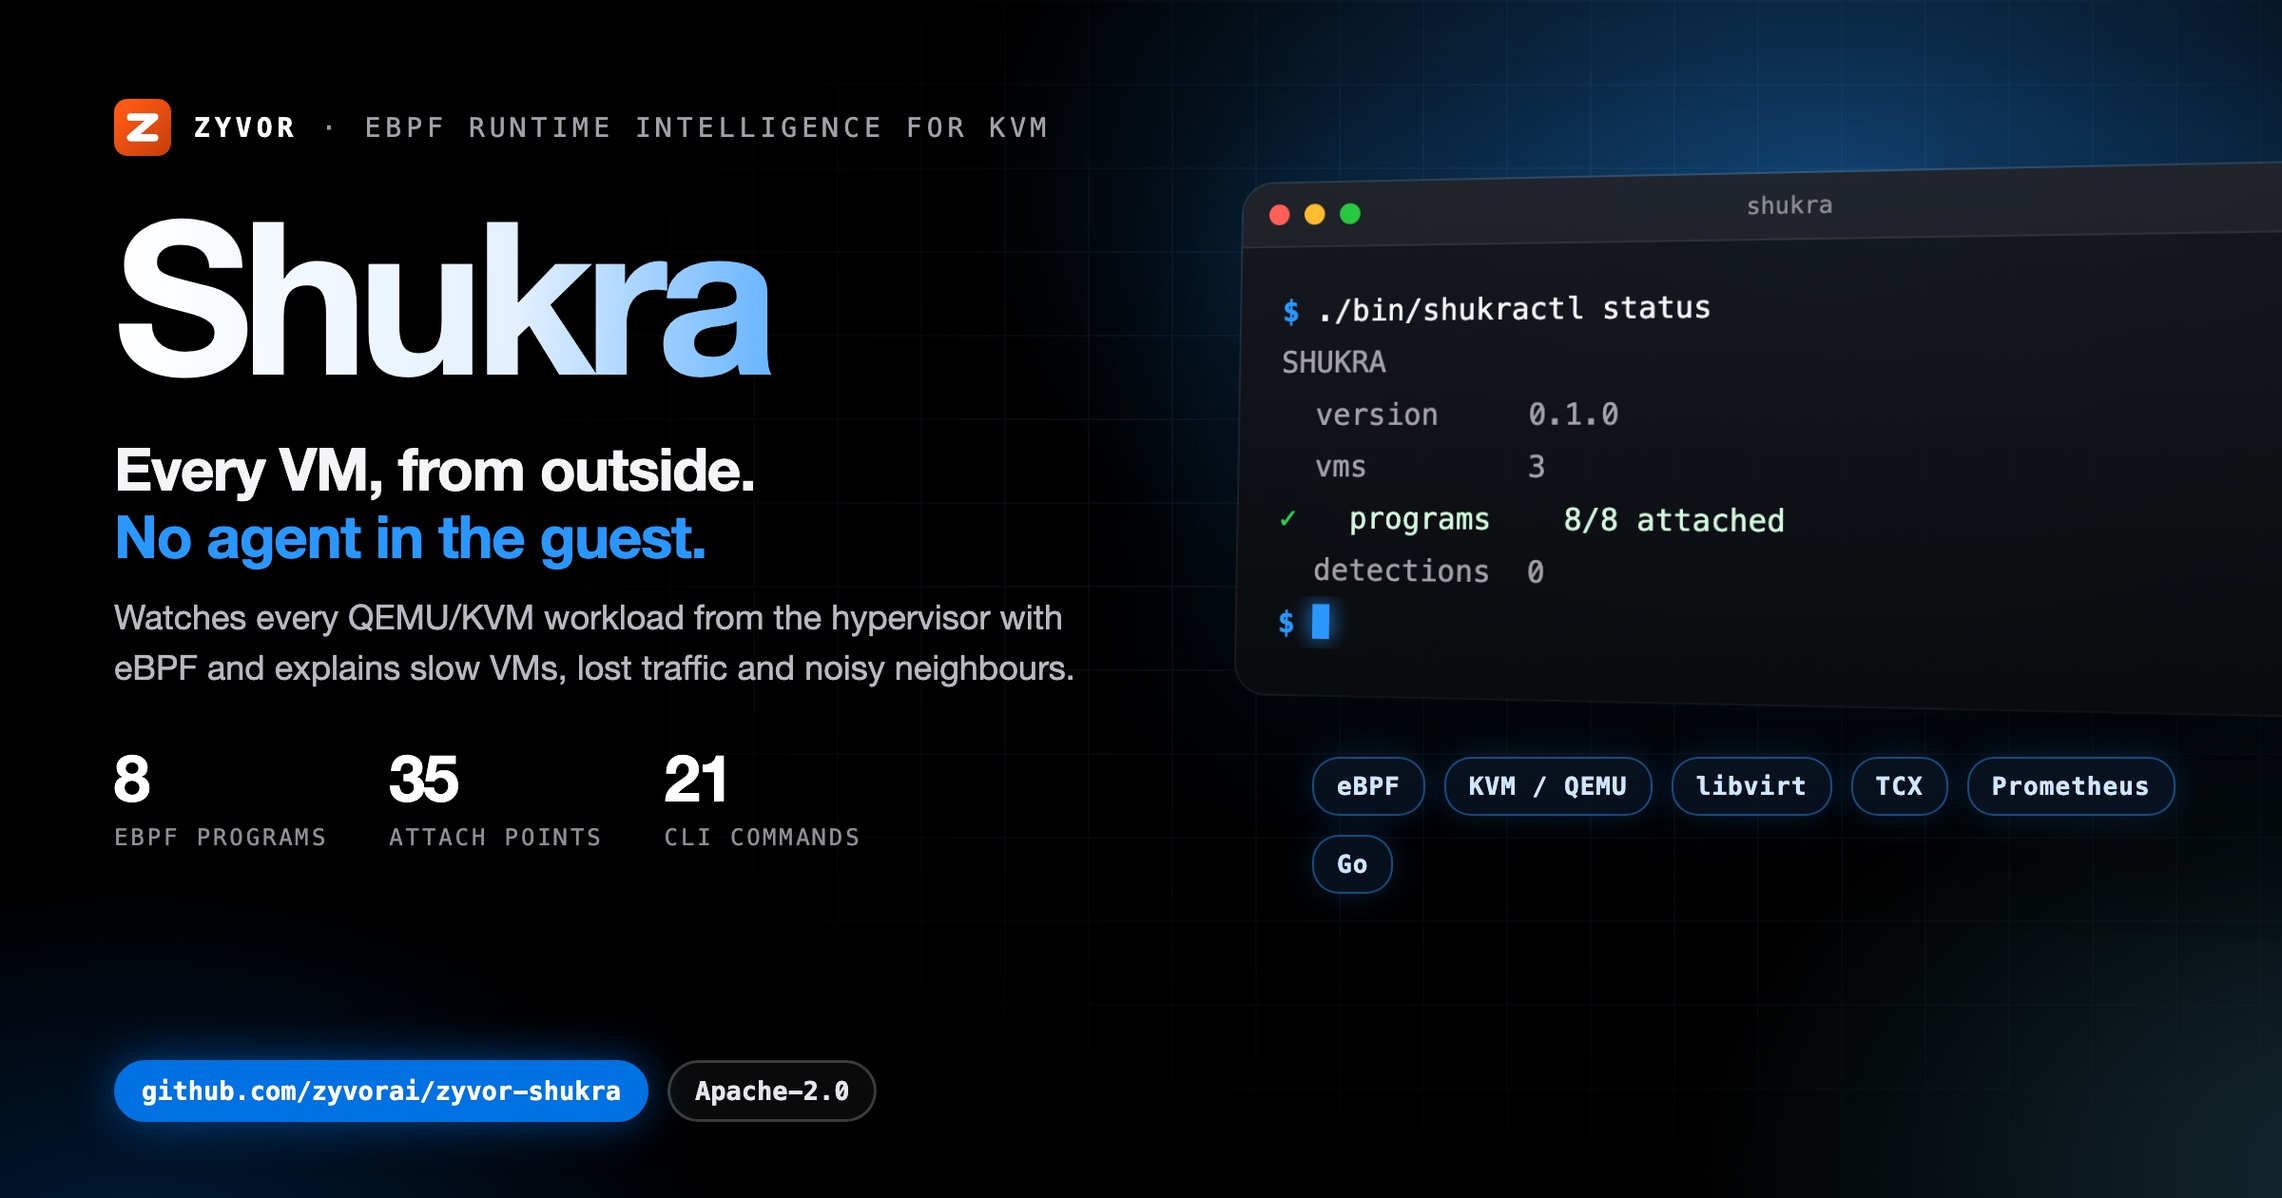
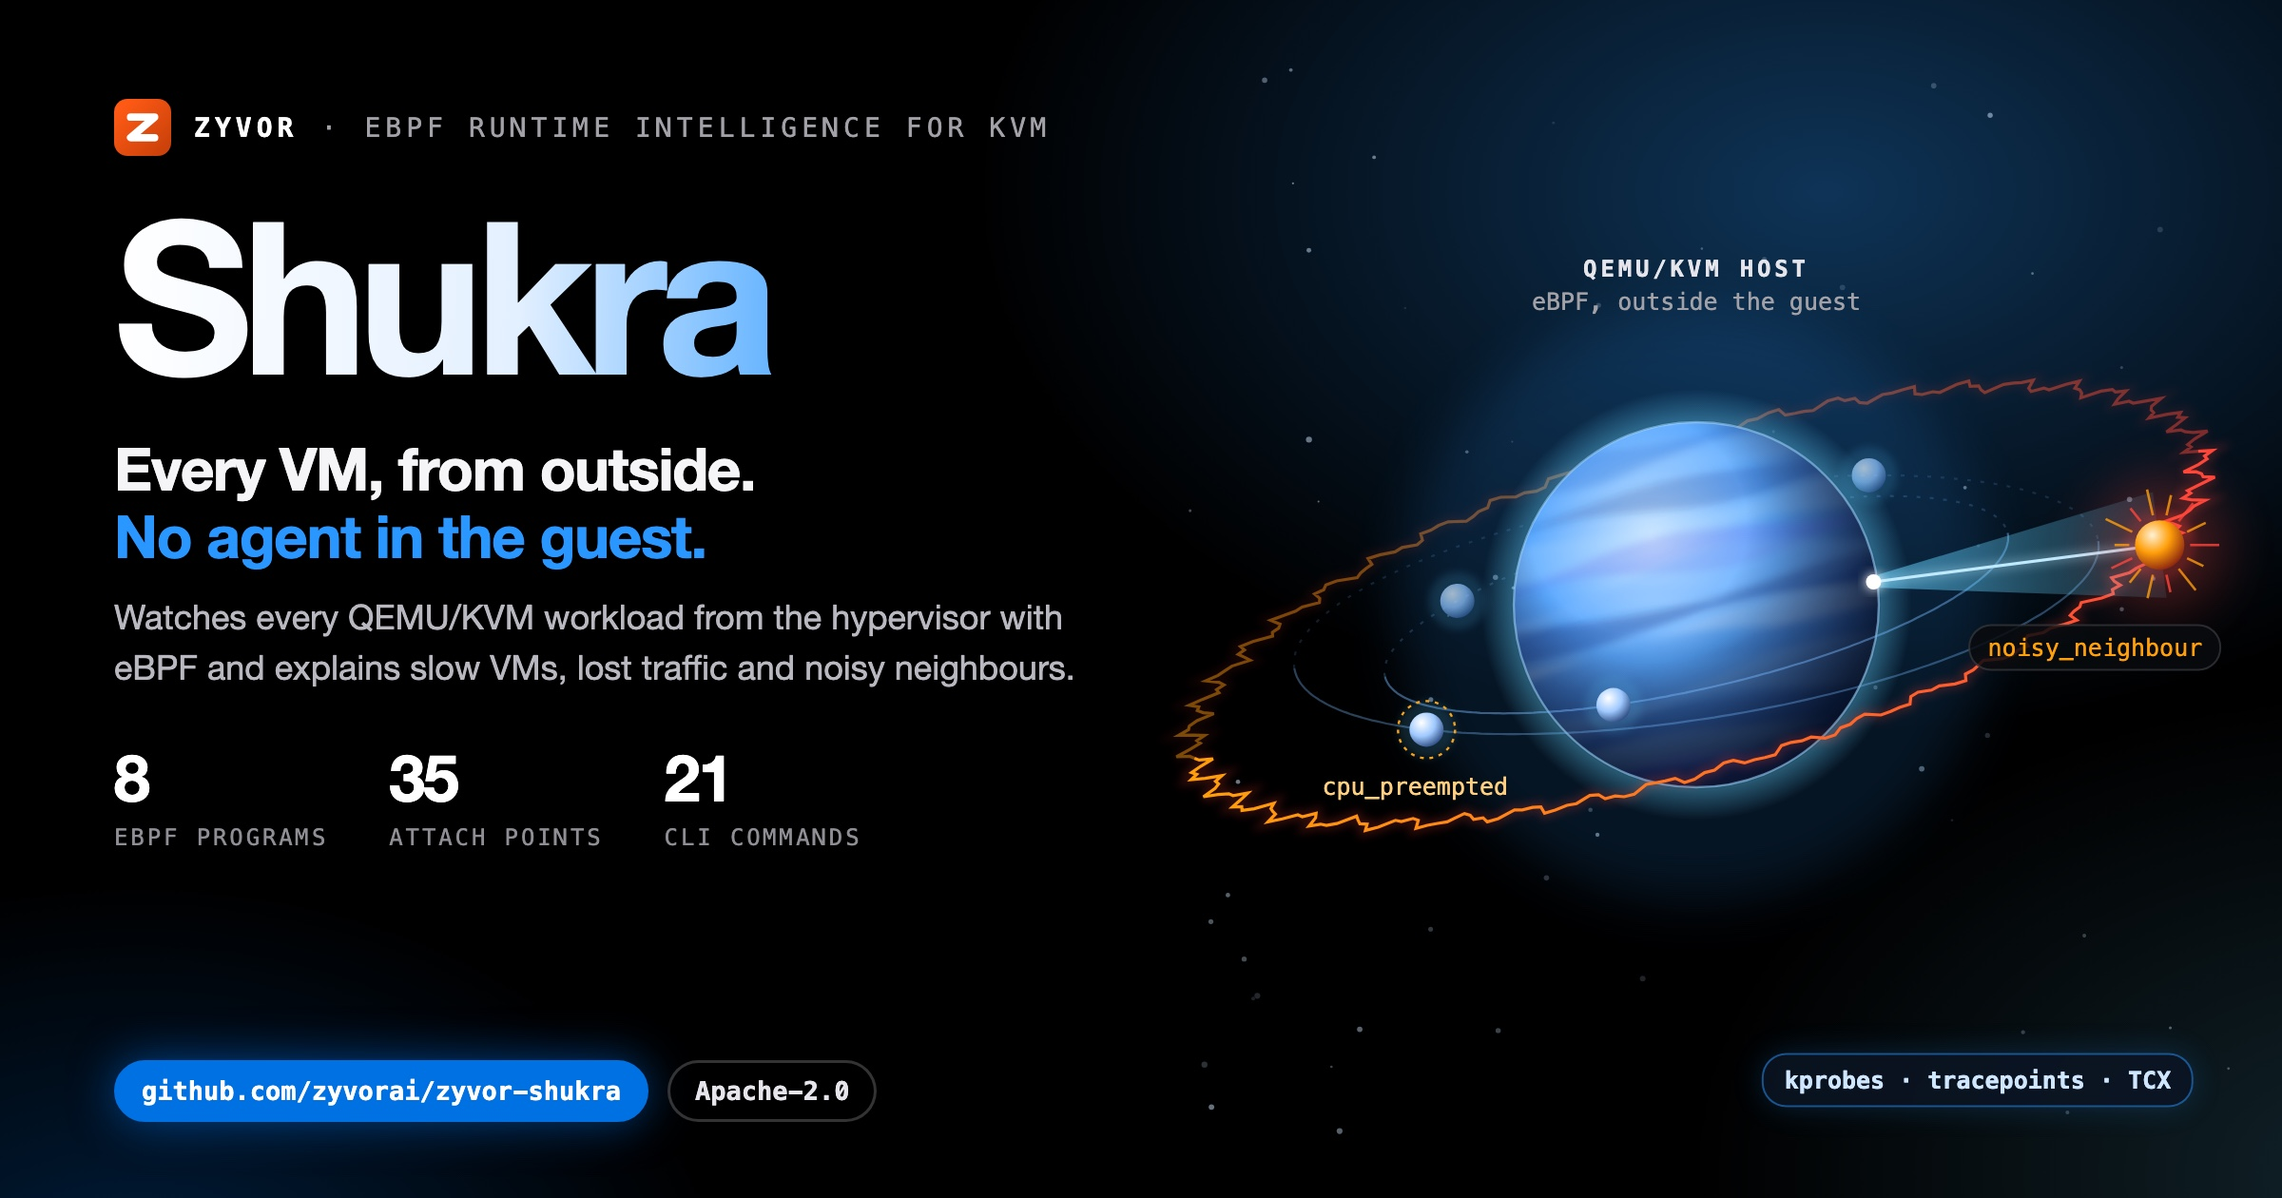
docs(social): unique illustrated hero card
Replace the shared terminal-window art with a motif drawn for this project;
same verified copy and stats on the left.

Changed region(s): [[0.5, 0.1238, 1.0, 0.7429], [0.75, 0.8667, 0.9688, 0.9286]]

diff --git a/docs/social/shukra-hero-dark.html b/docs/social/shukra-hero-dark.html
@@ -8,58 +8,47 @@
   Build: ./docs/social/build-hero-dark.sh  ->  shukra-hero-dark.jpg (2400x1260)
 -->
 <style>
-  :root { --blue:#0071e3; --signal:#2997ff; --cyan:#64d2ff; --green:#30d158; --amber:#ff9f0a;
+  :root { --blue:#0071e3; --signal:#2997ff; --cyan:#64d2ff; --green:#30d158; --amber:#ff9f0a; --red:#ff453a; --violet:#bf5af2;
     --sans:'SF Pro Display','Helvetica Neue',Helvetica,Arial,sans-serif; --mono:'SF Mono',Menlo,Consolas,monospace; }
   * { box-sizing:border-box; }
   html,body { margin:0; padding:0; }
   body { width:1200px; height:630px; overflow:hidden; color:#f5f5f7; font-family:var(--sans); position:relative; background:#000; }
   .aurora { position:absolute; inset:0;
-    background:radial-gradient(720px 460px at 80% 16%, rgba(41,151,255,.40), transparent 62%),
-               radial-gradient(600px 420px at 104% 98%, rgba(100,210,255,.20), transparent 60%),
+    background:radial-gradient(720px 460px at 80% 16%, rgba(41,151,255,.34), transparent 62%),
+               radial-gradient(600px 420px at 104% 98%, rgba(100,210,255,.16), transparent 60%),
                radial-gradient(520px 380px at 6% 110%, rgba(0,113,227,.28), transparent 60%); }
-  .grid { position:absolute; inset:0; opacity:.09;
-    background-image:linear-gradient(rgba(120,180,255,.9) 1px,transparent 1px),linear-gradient(90deg,rgba(120,180,255,.9) 1px,transparent 1px);
-    background-size:44px 44px; -webkit-mask-image:radial-gradient(900px 520px at 72% 42%, #000 18%, transparent 75%); }
-  .left { position:absolute; left:60px; top:52px; width:560px; z-index:3; }
+  .copy { position:absolute; left:60px; top:52px; width:560px; z-index:3; }
   .brand { display:flex; align-items:center; gap:12px; font-family:var(--mono); font-size:14px; letter-spacing:.18em; text-transform:uppercase; color:#a1a1a6; }
   .brand b { color:#fff; }
   .word { margin:20px 0 0; font-size:112px; line-height:.95; font-weight:800; letter-spacing:-.05em; white-space:nowrap;
     background:linear-gradient(92deg,#fff 0%,#e3f0ff 38%,var(--signal) 74%,var(--cyan) 100%); -webkit-background-clip:text; background-clip:text; color:transparent; padding-bottom:6px; }
   .tag { margin:14px 0 0; font-size:31px; line-height:1.15; font-weight:700; letter-spacing:-.02em; }
   .tag em { font-style:normal; color:var(--signal); }
-  .lede { margin:12px 0 0; font-size:18px; line-height:1.45; color:#b8b8bf; width:520px; }
+  .lede { margin:12px 0 0; font-size:18px; line-height:1.45; color:#b8b8bf; width:520px; text-shadow:0 1px 12px #000; }
   .stats { margin-top:24px; display:flex; gap:32px; }
   .stat b { display:block; font-size:34px; font-weight:800; letter-spacing:-.03em; color:#fff; }
   .stat span { font-family:var(--mono); font-size:12px; letter-spacing:.12em; text-transform:uppercase; color:#8e8e93; }
   .pill { position:absolute; left:60px; bottom:40px; display:flex; gap:10px; z-index:3; }
-  .pill span { font-family:var(--mono); font-size:13.5px; font-weight:700; padding:7px 13px; border-radius:18px; border:1.5px solid rgba(255,255,255,.2); color:#e5e5ea; background:rgba(255,255,255,.04); }
+  .pill span { font-family:var(--mono); font-size:13.5px; font-weight:700; padding:7px 13px; border-radius:18px; border:1.5px solid rgba(255,255,255,.2); color:#e5e5ea; background:rgba(0,0,0,.6); }
   .pill span.b { background:var(--blue); border-color:var(--blue); color:#fff; box-shadow:0 0 24px rgba(0,113,227,.55); }
-
-  .right { position:absolute; left:652px; top:96px; width:560px; z-index:2; }
-  .win { position:relative; width:560px; border-radius:16px; overflow:hidden; z-index:2;
-    background:linear-gradient(180deg, rgba(22,24,30,.94), rgba(10,11,14,.96));
-    box-shadow:0 50px 100px rgba(0,0,0,.75), 0 0 0 1px rgba(255,255,255,.14), 0 0 90px rgba(41,151,255,.22);
-    transform:perspective(1600px) rotateY(-14deg) rotateX(4deg); transform-origin:left center; }
-  .bar { height:34px; display:flex; align-items:center; gap:8px; padding:0 14px; background:rgba(255,255,255,.05); border-bottom:1px solid rgba(255,255,255,.07); }
-  .bar i { width:11px; height:11px; border-radius:50%; background:#ff5f57; } .bar i:nth-child(2){background:#febc2e} .bar i:nth-child(3){background:#28c840}
-  .bar em { margin-left:auto; margin-right:auto; font-style:normal; font-family:var(--mono); font-size:12px; color:#8e8e93; transform:translateX(-24px); }
-  .term { min-height:214px; padding:20px 22px 24px; font-family:var(--mono); font-size:15.5px; line-height:1.75; }
-  .l { white-space:pre; overflow:hidden; text-overflow:ellipsis; color:#f5f5f7; }
-  .l .p { color:var(--signal); font-weight:700; }
-  .l.out { color:#a1a1a6; }
-  .l.cm { color:#6e6e73; }
-  .l.ok { color:#d1f7dc; } .l.ok span { color:var(--green); font-weight:700; }
-  .l.warn { color:#ffe1b0; } .l.warn span { color:var(--amber); font-weight:700; }
-  .cur { display:inline-block; width:9px; height:18px; background:var(--signal); vertical-align:-3px; box-shadow:0 0 12px var(--signal); }
-  .chips { margin:34px 0 0 38px; width:480px; display:flex; flex-wrap:wrap; gap:10px; position:relative; z-index:3; }
-  .chips span { font-family:var(--mono); font-size:13px; font-weight:700; letter-spacing:.04em; padding:7px 12px; border-radius:14px;
-    color:#cfe6ff; background:rgba(10,20,35,.82); border:1px solid rgba(41,151,255,.45); box-shadow:0 0 18px rgba(41,151,255,.18); }
+  .art { position:absolute; left:520px; top:0; width:680px; height:630px; z-index:2; }
+  .art svg { display:block; }
+  #labels { position:absolute; inset:0; z-index:4; pointer-events:none; }
+  .lbl { position:absolute; font-family:var(--mono); font-size:12.5px; color:#a1a1a6; text-align:center; transform:translate(-50%,-50%); white-space:nowrap; }
+  .lbl b { display:block; font-size:12px; letter-spacing:.16em; text-transform:uppercase; color:#e5e5ea; }
+  .lbl span { display:block; margin-top:3px; }
+  .lbl.box { padding:7px 12px; border-radius:12px; background:rgba(8,10,14,.85); border:1px solid rgba(255,255,255,.14); }
+  .lbl.chip { padding:6px 11px; border-radius:13px; font-size:12.5px; font-weight:700; color:#cfe6ff; background:rgba(10,20,35,.85); border:1px solid rgba(41,151,255,.5); box-shadow:0 0 16px rgba(41,151,255,.2); }
+  .lbl.left { transform:translate(0,-50%); text-align:left; }
+  .lbl.right { transform:translate(-100%,-50%); text-align:right; }
+  .ok { color:var(--green) !important; } .warn { color:var(--amber) !important; } .bad { color:var(--red) !important; } .sig { color:var(--signal) !important; } .cy { color:var(--cyan) !important; } .vi { color:var(--violet) !important; }
 </style>
 </head>
 <body>
 <div class="aurora"></div>
-<div class="grid"></div>
-<div class="left">
+<div class="art"><svg id="art" width="680" height="630" viewBox="0 0 680 630" xmlns="http://www.w3.org/2000/svg"></svg></div>
+<div id="labels"></div>
+<div class="copy">
   <div class="brand"><svg viewBox="0 0 64 64" width="30" height="30" aria-hidden="true"><defs><linearGradient id="zb" x1="8" y1="8" x2="56" y2="56" gradientUnits="userSpaceOnUse"><stop offset="0" stop-color="#ff5a15"/><stop offset="1" stop-color="#cc420a"/></linearGradient></defs><rect width="64" height="64" rx="15" fill="url(#zb)"/><path d="M18.5,20.5 45.5,20.5 18.5,43.5 45.5,43.5" fill="none" stroke="#fff" stroke-width="8.3" stroke-linecap="round" stroke-linejoin="round"/></svg><b>Zyvor</b><span>&middot;</span><span>eBPF runtime intelligence for KVM</span></div>
   <div class="word">Shukra</div>
   <div class="tag">Every VM, from outside.<br><em>No agent in the guest.</em></div>
@@ -67,8 +56,122 @@
   <div class="stats"><div class="stat"><b>8</b><span>eBPF programs</span></div><div class="stat"><b>35</b><span>attach points</span></div><div class="stat"><b>21</b><span>CLI commands</span></div></div>
 </div>
 <div class="pill"><span class="b">github.com/zyvorai/zyvor-shukra</span><span>Apache-2.0</span></div>
-<div class="right"><div class="win"><div class="bar"><i></i><i></i><i></i><em>shukra</em></div>
-<div class="term"><div class="l"><span class="p">$</span> ./bin/shukractl status</div><div class="l out">SHUKRA</div><div class="l out">  version     0.1.0</div><div class="l out">  vms         3</div><div class="l ok"><span>&#10003;</span>   programs    8/8 attached</div><div class="l out">  detections  0</div><div class="l"><span class="p">$</span> <i class="cur"></i></div></div></div>
-<div class="chips"><span>eBPF</span><span>KVM / QEMU</span><span>libvirt</span><span>TCX</span><span>Prometheus</span><span>Go</span></div></div>
+<script>
+var Z = (function () {
+  var NS = 'http://www.w3.org/2000/svg', svg = document.getElementById('art'), labels = document.getElementById('labels');
+  var seed = 20261004;
+  function rnd() { seed = (seed * 1103515245 + 12345) % 2147483648; return seed / 2147483648; }
+  function el(tag, a, parent) { var n = document.createElementNS(NS, tag); for (var k in a) n.setAttribute(k, a[k]); (parent || svg).appendChild(n); return n; }
+  function g(attrs) { return el('g', attrs || {}); }
+  function label(x, y, inner, cls, style) { var d = document.createElement('div'); d.className = 'lbl ' + (cls || ''); d.style.left = (520 + x) + 'px'; d.style.top = y + 'px'; if (style) d.setAttribute('style', d.getAttribute('style') + ';' + style); d.innerHTML = inner; labels.appendChild(d); return d; }
+  return { NS: NS, svg: svg, W: 680, H: 630, rnd: rnd, el: el, g: g, label: label,
+    reseed: function (s) { seed = s; },
+    c: { blue: '#0071e3', signal: '#2997ff', cyan: '#64d2ff', green: '#30d158', amber: '#ff9f0a', red: '#ff453a', violet: '#bf5af2', teal: '#40c8e0', indigo: '#5e5ce6', pink: '#ff375f', white: '#f5f5f7', grey: '#8e8e93' } };
+})();
+(function () {
+// Shukra: the hypervisor as a softly banded Venus-like planet; VMs are moons on tilted orbits.
+// One orbit is a noisy neighbour (jagged amber/red), lit by an eBPF probe beam cast from the planet.
+var C = Z.c, cx = 372, cy = 318, R = 96;
+var defs = Z.el('defs', {});
+defs.innerHTML = '<filter id="sk-gl" x="-50%" y="-50%" width="200%" height="200%"><feGaussianBlur stdDeviation="3" result="b"/><feMerge><feMergeNode in="b"/><feMergeNode in="SourceGraphic"/></feMerge></filter>' +
+  '<filter id="sk-sf" x="-50%" y="-50%" width="200%" height="200%"><feGaussianBlur stdDeviation="14"/></filter>' +
+  '<filter id="sk-bl" x="-20%" y="-20%" width="140%" height="140%"><feGaussianBlur stdDeviation="2.2"/></filter>' +
+  '<clipPath id="sk-clip"><circle cx="' + cx + '" cy="' + cy + '" r="' + R + '"/></clipPath>' +
+  '<radialGradient id="sk-body" cx=".38" cy=".32" r=".75"><stop offset="0" stop-color="#cfe8ff"/><stop offset=".45" stop-color="#5aa8ff"/><stop offset="1" stop-color="#1b2f7a"/></radialGradient>' +
+  '<radialGradient id="sk-shade" cx=".34" cy=".28" r=".85"><stop offset=".35" stop-color="#000814" stop-opacity="0"/><stop offset=".85" stop-color="#000814" stop-opacity=".78"/><stop offset="1" stop-color="#000814" stop-opacity=".92"/></radialGradient>' +
+  '<radialGradient id="sk-atm"><stop offset=".78" stop-color="#64d2ff" stop-opacity="0"/><stop offset=".86" stop-color="#64d2ff" stop-opacity=".35"/><stop offset="1" stop-color="#64d2ff" stop-opacity="0"/></radialGradient>' +
+  '<radialGradient id="sk-moon" cx=".35" cy=".3" r=".8"><stop offset="0" stop-color="#ffffff"/><stop offset=".5" stop-color="#9fc9ff"/><stop offset="1" stop-color="#1d3a70"/></radialGradient>' +
+  '<radialGradient id="sk-moonbad" cx=".35" cy=".3" r=".8"><stop offset="0" stop-color="#fff1d6"/><stop offset=".45" stop-color="#ff9f0a"/><stop offset="1" stop-color="#7a1410"/></radialGradient>' +
+  '<linearGradient id="sk-noisy" x1="0" y1="0" x2="1" y2="0"><stop offset="0" stop-color="#ff9f0a"/><stop offset="1" stop-color="#ff453a"/></linearGradient>';
+
+// distant stars
+for (var i = 0; i < 70; i++) {
+  var sx = 100 + Z.rnd() * 560, sy = 30 + Z.rnd() * 570;
+  Z.el('circle', { cx: sx, cy: sy, r: .5 + Z.rnd() * 1.1, fill: '#cfe6ff', opacity: (0.12 + Z.rnd() * 0.4).toFixed(2) });
+}
+
+var orbits = [
+  { rx: 168, ry: 44, rot: -13, col: 'rgba(120,185,255,.45)' },
+  { rx: 214, ry: 60, rot: -9, col: 'rgba(120,185,255,.35)' },
+  { rx: 276, ry: 86, rot: -17, col: 'url(#sk-noisy)', noisy: true }
+];
+function pt(o, t, jit) {
+  var r = jit ? 1 + jit : 1;
+  var x = o.rx * r * Math.cos(t), y = o.ry * r * Math.sin(t), a = o.rot * Math.PI / 180;
+  return { x: cx + x * Math.cos(a) - y * Math.sin(a), y: cy + x * Math.sin(a) + y * Math.cos(a) };
+}
+function arc(o, t0, t1) {
+  var d = '', n = 160;
+  for (var k = 0; k <= n; k++) {
+    var t = t0 + (t1 - t0) * k / n, j = o.noisy ? 0.022 * Math.sin(t * 46) + 0.012 * Math.sin(t * 113) : 0;
+    var p = pt(o, t, j);
+    d += (k ? 'L' : 'M') + p.x.toFixed(1) + ',' + p.y.toFixed(1);
+  }
+  return d;
+}
+function drawOrbit(o, front) {
+  var t0 = front ? 0 : Math.PI, t1 = front ? Math.PI : 2 * Math.PI;
+  if (o.noisy) Z.el('path', { d: arc(o, t0, t1), fill: 'none', stroke: C.red, 'stroke-width': 6, opacity: front ? .18 : .08, filter: 'url(#sk-bl)' });
+  Z.el('path', { d: arc(o, t0, t1), fill: 'none', stroke: o.col, 'stroke-width': o.noisy ? 1.6 : 1.1, opacity: front ? 1 : .45, 'stroke-dasharray': o.noisy ? 'none' : (front ? 'none' : '2 5') });
+}
+// moons: [orbit, angle, kind]
+var moons = [[0, 1.9, 'vm'], [0, 3.9, 'vm'], [1, 2.35, 'victim'], [1, 5.2, 'vm'], [2, 0.5, 'noisy']];
+function drawMoon(m) {
+  var o = orbits[m[0]], p = pt(o, m[1]), front = Math.sin(m[1]) > 0, r = m[2] === 'noisy' ? 13 : 9;
+  if (m[2] === 'noisy') {
+    Z.el('circle', { cx: p.x, cy: p.y, r: 34, fill: C.red, opacity: .28, filter: 'url(#sk-sf)' });
+    for (var k = 0; k < 14; k++) {
+      var a = k / 14 * Math.PI * 2, l = 19 + (k % 2 ? 4 : 9) + Z.rnd() * 4;
+      Z.el('line', { x1: p.x + 16 * Math.cos(a), y1: p.y + 16 * Math.sin(a), x2: p.x + l * Math.cos(a), y2: p.y + l * Math.sin(a), stroke: k % 3 ? C.amber : C.red, 'stroke-width': 1.3, opacity: .8 });
+    }
+  }
+  if (m[2] === 'victim') Z.el('circle', { cx: p.x, cy: p.y, r: 15, fill: 'none', stroke: C.amber, 'stroke-width': 1.2, 'stroke-dasharray': '2 3' });
+  Z.el('circle', { cx: p.x, cy: p.y, r: r + 6, fill: m[2] === 'noisy' ? C.red : C.cyan, opacity: .15, filter: 'url(#sk-bl)' });
+  Z.el('circle', { cx: p.x, cy: p.y, r: r, fill: m[2] === 'noisy' ? 'url(#sk-moonbad)' : 'url(#sk-moon)', opacity: front ? 1 : .7 });
+  return p;
+}
+
+orbits.forEach(function (o) { drawOrbit(o, false); });
+moons.forEach(function (m) { if (Math.sin(m[1]) <= 0) drawMoon(m); });
+
+// planet: atmosphere, body, bands, shading
+Z.el('circle', { cx: cx, cy: cy, r: R + 60, fill: C.signal, opacity: .14, filter: 'url(#sk-sf)' });
+Z.el('circle', { cx: cx, cy: cy, r: R * 1.18, fill: 'url(#sk-atm)' });
+var body = Z.g({ 'clip-path': 'url(#sk-clip)' });
+Z.el('circle', { cx: cx, cy: cy, r: R, fill: 'url(#sk-body)' }, body);
+var bands = Z.g({ transform: 'rotate(-13 ' + cx + ' ' + cy + ')', filter: 'url(#sk-bl)' }, body);
+body.appendChild(bands);
+var bandCols = ['#e6f3ff', '#3d7bd9', '#9fd0ff', '#24479c', '#bfe3ff', '#5e5ce6', '#7fb8ff', '#1f3b8a'];
+for (var b = 0; b < 15; b++) {
+  var y0 = cy - R - 10 + b * 14.5, amp = 3 + Z.rnd() * 5, ph = Z.rnd() * 6, hgt = 6 + Z.rnd() * 9, d = '';
+  for (var x = cx - R - 30; x <= cx + R + 30; x += 8) d += (x === cx - R - 30 ? 'M' : 'L') + x + ',' + (y0 + amp * Math.sin(x / 34 + ph)).toFixed(1);
+  for (var x = cx + R + 30; x >= cx - R - 30; x -= 8) d += 'L' + x + ',' + (y0 + hgt + amp * Math.sin(x / 30 + ph + .6)).toFixed(1);
+  Z.el('path', { d: d + 'Z', fill: bandCols[b % bandCols.length], opacity: (0.18 + Z.rnd() * 0.22).toFixed(2) }, bands);
+}
+Z.el('circle', { cx: cx, cy: cy, r: R, fill: 'url(#sk-shade)' }, body);
+Z.el('circle', { cx: cx, cy: cy, r: R, fill: 'none', stroke: 'rgba(160,215,255,.55)', 'stroke-width': 1.2 });
+
+orbits.forEach(function (o) { drawOrbit(o, true); });
+
+// eBPF probe beam from the planet surface to the noisy moon
+var noisyM = moons[4], np = pt(orbits[2], noisyM[1]);
+var ang = Math.atan2(np.y - cy, np.x - cx), sx = cx + (R - 2) * Math.cos(ang), sy = cy + (R - 2) * Math.sin(ang);
+var nx = -Math.sin(ang), ny = Math.cos(ang), w = 28;
+var bg = Z.el('linearGradient', { id: 'sk-beam', gradientUnits: 'userSpaceOnUse', x1: sx, y1: sy, x2: np.x, y2: np.y }, defs);
+bg.innerHTML = '<stop offset="0" stop-color="#64d2ff" stop-opacity=".55"/><stop offset="1" stop-color="#64d2ff" stop-opacity=".12"/>';
+Z.el('path', { d: 'M' + (sx + nx * 3).toFixed(1) + ',' + (sy + ny * 3).toFixed(1) + ' L' + (np.x + nx * w).toFixed(1) + ',' + (np.y + ny * w).toFixed(1) + ' L' + (np.x - nx * w).toFixed(1) + ',' + (np.y - ny * w).toFixed(1) + ' L' + (sx - nx * 3).toFixed(1) + ',' + (sy - ny * 3).toFixed(1) + 'Z', fill: 'url(#sk-beam)' });
+Z.el('line', { x1: sx, y1: sy, x2: np.x, y2: np.y, stroke: '#bfeaff', 'stroke-width': 1.6, filter: 'url(#sk-gl)' });
+Z.el('circle', { cx: sx, cy: sy, r: 4, fill: '#fff', filter: 'url(#sk-gl)' });
+
+var placed = [];
+moons.forEach(function (m) { if (Math.sin(m[1]) > 0) placed.push([m, drawMoon(m)]); });
+var vp = pt(orbits[1], moons[2][1]);
+
+Z.label(np.x - 34, np.y + 54, '<span class="warn" style="margin:0">noisy_neighbour</span>', 'box', 'padding:4px 9px');
+Z.label(vp.x - 6, vp.y + 30, '<span style="margin:0;color:#ffcf80">cpu_preempted</span>');
+Z.label(cx, 150, '<b>QEMU/KVM host</b><span>eBPF, outside the guest</span>');
+Z.label(520, 568, 'kprobes &middot; tracepoints &middot; TCX', 'chip');
+})();
+</script>
 </body>
 </html>
